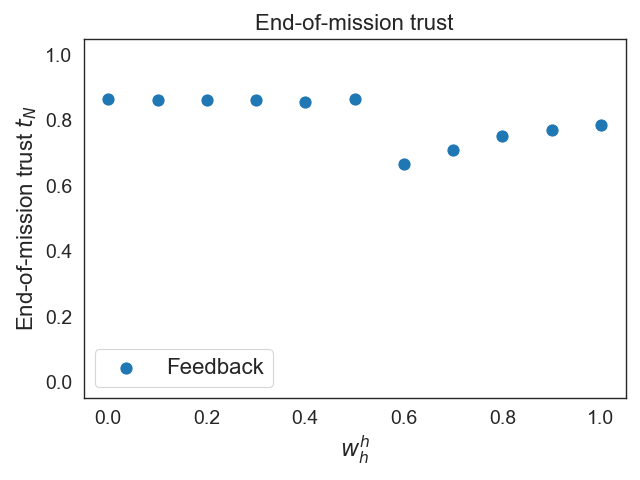
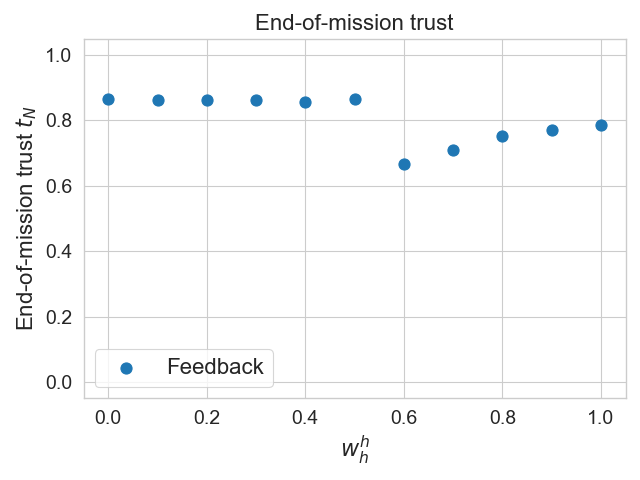
Added plots with gridlines

diff --git a/effect-of-value-alignment-code/final-code/plots-for-paper/adaptive/weight.py b/effect-of-value-alignment-code/final-code/plots-for-paper/adaptive/weight.py
@@ -7,7 +7,7 @@ import json
 import datetime
 import seaborn as sns
 
-sns.set_theme(style='white', context='paper')
+sns.set_theme(style='whitegrid', context='paper')
 
 
 def analyze(parent_directory: str, threat_level: float):
@@ -72,7 +72,7 @@ def analyze(parent_directory: str, threat_level: float):
 
 def main():
     parent_directory = path.join('..', '..', 'varying-weights', 'data', 'OneStepOptimal', 'Adaptive')
-    threat_level = 0.3
+    threat_level = 0.7
     analyze(parent_directory, threat_level)
 
 

diff --git a/effect-of-value-alignment-code/final-code/plots-for-paper/non-adaptive/threat-level-effect.py b/effect-of-value-alignment-code/final-code/plots-for-paper/non-adaptive/threat-level-effect.py
@@ -9,7 +9,7 @@ import json
 import datetime
 import seaborn as sns
 from scipy.stats import beta
-sns.set_theme(style='white', context='paper')
+sns.set_theme(style='whitegrid', context='paper')
 
 
 def analyze(parent_directory: str, wh_rob: float, wh_hum: float):

diff --git a/effect-of-value-alignment-code/final-code/plots-for-paper/adaptive/threat.py b/effect-of-value-alignment-code/final-code/plots-for-paper/adaptive/threat.py
@@ -8,7 +8,7 @@ from os import path, walk
 import json
 import datetime
 import seaborn as sns
-sns.set_theme(style='white', context='paper')
+sns.set_theme(style='whitegrid', context='paper')
 
 
 def analyze(parent_directory: str, wh_hum: float):
